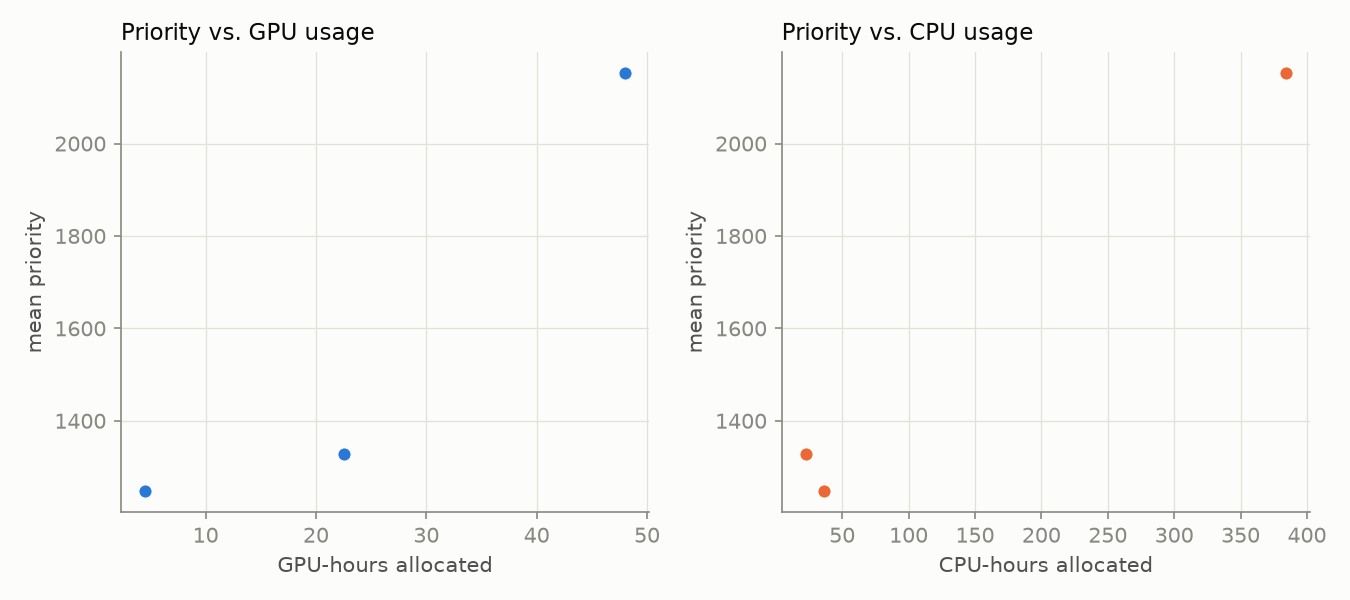
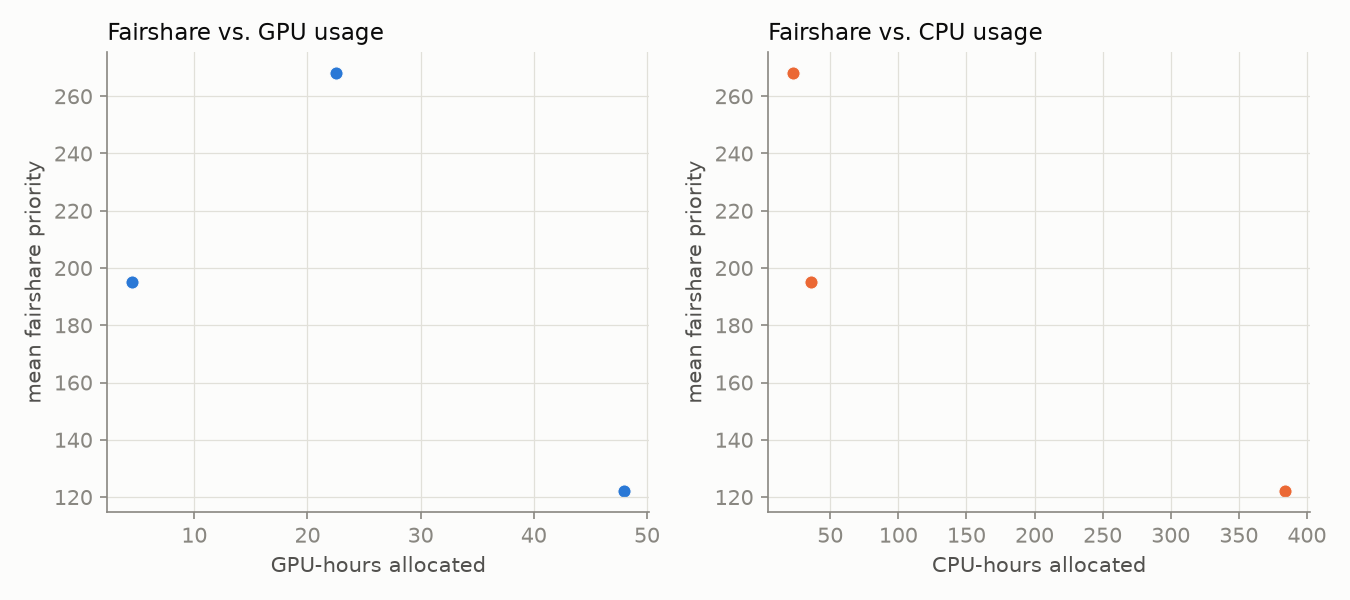
Priority-vs-usage: plot the fairshare component, not total priority
Checked live sprio data across an hour: fairshare was flat for every user
observed while age climbed steadily and accounted for essentially all
movement in total priority (e.g. one user +42 total priority, fairshare
unchanged at 195, age 6->48). PriorityWeightAge=1000 vs
PriorityWeightFairShare=10000 means age dominates short-window variation.
Plotting total priority against usage was therefore mostly plotting
time-in-queue against usage, not the usage effect the chart is meant to
show - fairshare is the one component usage can actually move.

diff --git a/render_readme.py b/render_readme.py
@@ -371,10 +371,17 @@ def main():
         gpu_hours_by_user_day[key] += r["gpus"] * h
         cpu_hours_by_user_day[key] += r["cpus"] * h
 
-    prio_by_user_day = defaultdict(list)
+    # Plot the *fairshare* component, not total priority. Total priority also
+    # carries the age term (PriorityWeightAge=1000, vs PriorityWeightFairShare
+    # =10000 for fairshare) - in practice, over any short window, virtually
+    # all movement in total priority comes from age (how long a job has been
+    # queued), not usage. Plotting total priority against usage mostly plots
+    # "time queued" against "usage", which swamps the actual usage effect this
+    # chart is meant to show. Fairshare is the one component usage can move.
+    fairshare_by_user_day = defaultdict(list)
     for r in queue_rows:
-        if r.get("priority") is not None and r.get("user"):
-            prio_by_user_day[(r["user"], day_of(r["ts"]))].append(r["priority"])
+        if r.get("fairshare") is not None and r.get("user"):
+            fairshare_by_user_day[(r["user"], day_of(r["ts"]))].append(r["fairshare"])
 
     usage_days = set(gpu_hours_by_user_day) | set(cpu_hours_by_user_day)
     scatter_rows = []
@@ -383,20 +390,20 @@ def main():
         ch_val = cpu_hours_by_user_day.get(key, 0.0)
         if gh_val <= 0 and ch_val <= 0:
             continue
-        prios = prio_by_user_day.get(key)
-        if prios:
-            scatter_rows.append((gh_val, ch_val, stats.mean(prios)))
+        fairshares = fairshare_by_user_day.get(key)
+        if fairshares:
+            scatter_rows.append((gh_val, ch_val, stats.mean(fairshares)))
     if scatter_rows:
         gh = [s[0] for s in scatter_rows]
         ch = [s[1] for s in scatter_rows]
-        pr = [s[2] for s in scatter_rows]
+        fs = [s[2] for s in scatter_rows]
         fig, axes = plt.subplots(1, 2, figsize=(9, 4))
-        axes[0].scatter(gh, pr, color=LAB_COLORS[0], s=40, edgecolor=SURFACE, linewidth=0.5)
-        axes[0].set_xlabel("GPU-hours allocated"); axes[0].set_ylabel("mean priority")
-        axes[0].set_title("Priority vs. GPU usage", loc="left", fontsize=11)
-        axes[1].scatter(ch, pr, color=LAB_COLORS[1], s=40, edgecolor=SURFACE, linewidth=0.5)
-        axes[1].set_xlabel("CPU-hours allocated"); axes[1].set_ylabel("mean priority")
-        axes[1].set_title("Priority vs. CPU usage", loc="left", fontsize=11)
+        axes[0].scatter(gh, fs, color=LAB_COLORS[0], s=40, edgecolor=SURFACE, linewidth=0.5)
+        axes[0].set_xlabel("GPU-hours allocated"); axes[0].set_ylabel("mean fairshare priority")
+        axes[0].set_title("Fairshare vs. GPU usage", loc="left", fontsize=11)
+        axes[1].scatter(ch, fs, color=LAB_COLORS[1], s=40, edgecolor=SURFACE, linewidth=0.5)
+        axes[1].set_xlabel("CPU-hours allocated"); axes[1].set_ylabel("mean fairshare priority")
+        axes[1].set_title("Fairshare vs. CPU usage", loc="left", fontsize=11)
         fig.tight_layout()
         fig.savefig(ASSETS / "priority_scatter.png", dpi=150)
         plt.close(fig)
@@ -471,15 +478,21 @@ def main():
         lines.append("![Queue wait time](assets/queue_wait.png)")
         lines.append("")
     if have_scatter:
-        lines.append("## Priority vs. usage")
+        lines.append("## Fairshare vs. usage")
         lines.append("")
-        lines.append("![Priority vs GPU/CPU usage](assets/priority_scatter.png)")
+        lines.append("![Fairshare vs GPU/CPU usage](assets/priority_scatter.png)")
         lines.append("")
         lines.append(f"Each point is one user on one day (n={len(scatter_rows)}): that "
-                     "day's allocated GPU/CPU-hours against their mean Slurm priority "
-                     "that same day, for everyone who ran something that day. Not a "
-                     "lifetime total per user - that would only grow and would mix "
-                     "together usage from weeks ago with today's priority.")
+                     "day's allocated GPU/CPU-hours against their mean *fairshare* "
+                     "priority component that same day, for everyone who ran something "
+                     "that day. Not a lifetime total per user - that would only grow "
+                     "and would mix together usage from weeks ago with today's fairshare. "
+                     "This plots the fairshare component specifically, not total Slurm "
+                     "priority - total priority also carries an age term "
+                     "(`PriorityWeightAge`=1000 vs `PriorityWeightFairShare`=10000) that, "
+                     "over any short window, accounts for essentially all of the movement "
+                     "in total priority regardless of usage - plotting total priority "
+                     "against usage would mostly be plotting time-in-queue against usage.")
         lines.append("")
         lines.append("**GPU usage does not currently affect priority, confirmed directly "
                      "from the Slurm config**, not just inferred from the chart shape: "

diff --git a/README.md b/README.md
@@ -2,7 +2,7 @@
 
 Automated GPU/CPU/queue utilization tracker for `hopper.cluster`, updated every 30 minutes by cron. Usernames are anonymized to a stable per-account pseudonym; lab names are real.
 
-Last updated: 2026-08-05T08:30:16-07:00
+Last updated: 2026-08-05T08:45:17-07:00
 Samples: 3 queue snapshots, 3 GPU snapshots
 
 ## Resources
@@ -36,17 +36,17 @@ Samples: 3 queue snapshots, 3 GPU snapshots
 
 ![GPU allocation vs utilization over time](assets/gpu_alloc_util.png)
 
-The GPU chart layers three things at once: solid color is GPU-hardware utilization by lab (Σ util% across that lab's allocated GPUs), the hatched gray band on top is allocated-but-idle - GPUs a job is holding but not using - and the dashed line is total cluster GPU capacity, so any gap above the dashed line is unallocated headroom.
+The GPU chart layers four things: solid color is GPU-hardware utilization by lab (Σ util% across that lab's allocated GPUs); solid gray is real utilization `nvidia-smi` reports that couldn't be traced to a job or lab (the ssh-based PID lookup misses some processes - likely containerized ones outside its PID namespace); the hatched gray band on top of that is *actually* idle - allocated but not computing at all; and the dashed line is total cluster GPU capacity, so any gap above it is unallocated headroom.
 
 ## Queue
 
 ![Queue wait time](assets/queue_wait.png)
 
-## Priority vs. usage
+## Fairshare vs. usage
 
-![Priority vs GPU/CPU usage](assets/priority_scatter.png)
+![Fairshare vs GPU/CPU usage](assets/priority_scatter.png)
 
-Each point is one user on one day (n=3): that day's allocated GPU/CPU-hours against their mean Slurm priority that same day, for everyone who ran something that day. Not a lifetime total per user - that would only grow and would mix together usage from weeks ago with today's priority.
+Each point is one user on one day (n=3): that day's allocated GPU/CPU-hours against their mean *fairshare* priority component that same day, for everyone who ran something that day. Not a lifetime total per user - that would only grow and would mix together usage from weeks ago with today's fairshare. This plots the fairshare component specifically, not total Slurm priority - total priority also carries an age term (`PriorityWeightAge`=1000 vs `PriorityWeightFairShare`=10000) that, over any short window, accounts for essentially all of the movement in total priority regardless of usage - plotting total priority against usage would mostly be plotting time-in-queue against usage.
 
 **GPU usage does not currently affect priority, confirmed directly from the Slurm config**, not just inferred from the chart shape: `PriorityWeightTRES` is unset (a job's own GPU/CPU mix carries no weight), and partition `main` has no `TRESBillingWeights` configured, so fairshare usage accounting bills by CPU count alone - a job holding 4 GPUs and 8 CPUs accrues the same usage debt as an 8-CPU, no-GPU job. If the two panels above look similarly shaped, that's this setting in action, not a coincidence.
 
